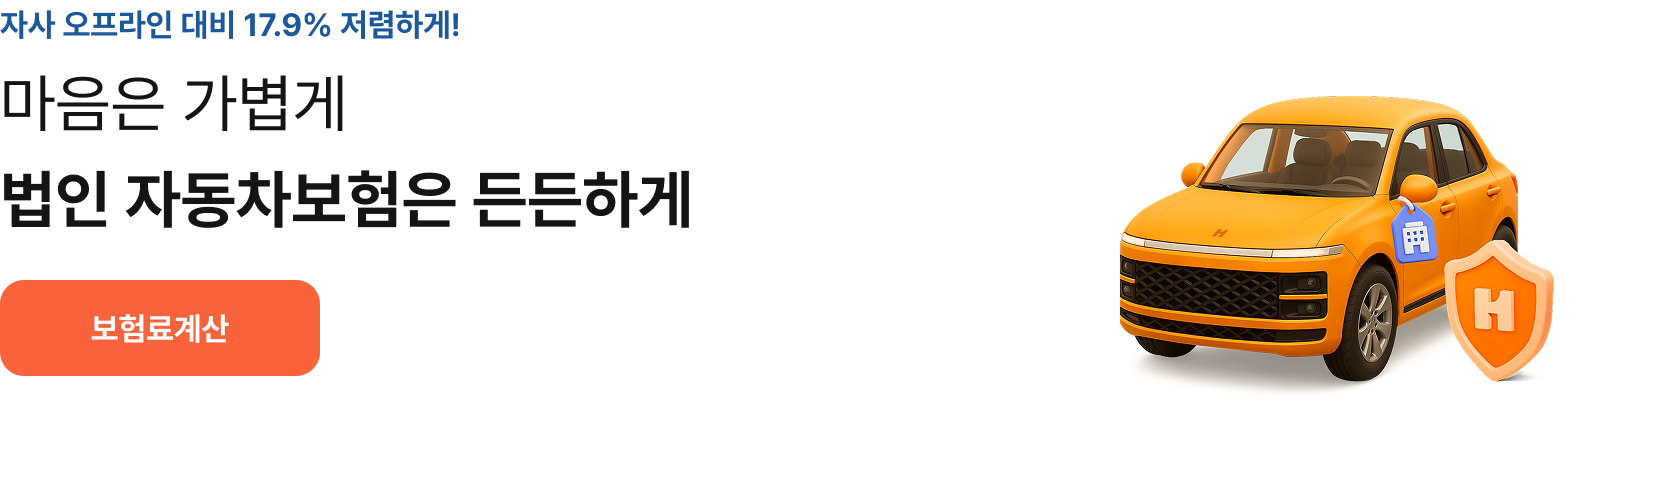
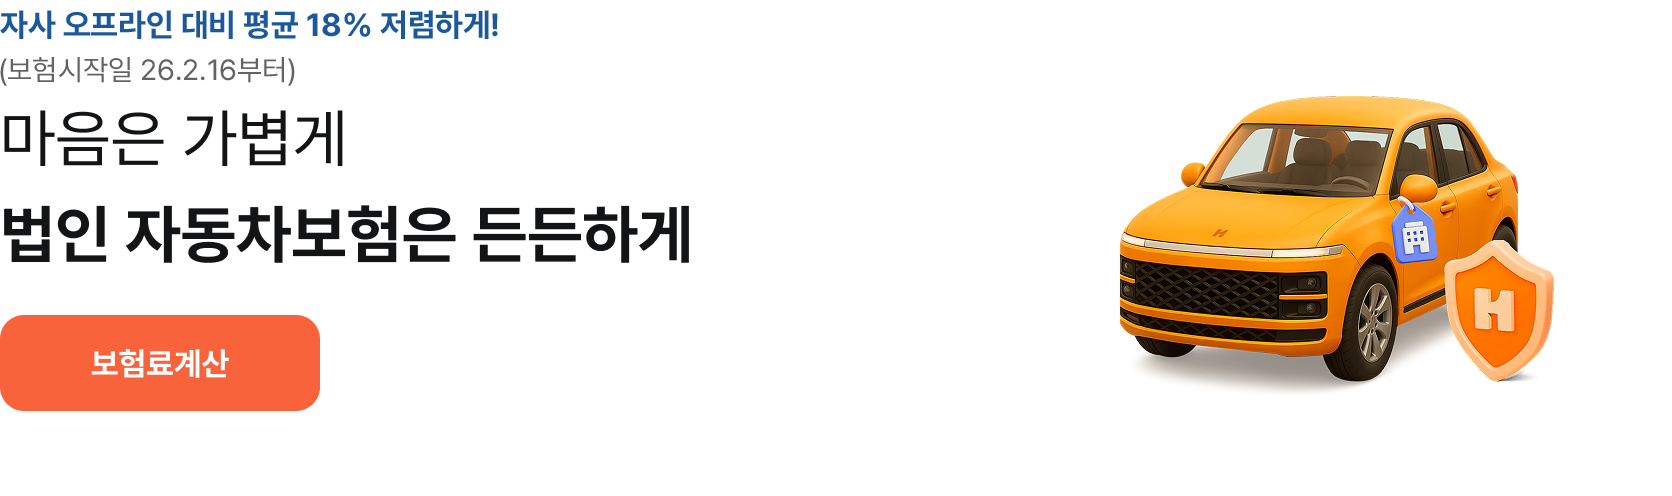
수정사항 반영

Changed region(s): [[0.0, 0.121, 0.4354, 0.8468], [0.0, 0.0, 0.311, 0.0907]]

diff --git a/src/html/HO/HO00/PHOHO0020001000000.html b/src/html/HO/HO00/PHOHO0020001000000.html
@@ -9,7 +9,9 @@
 					<!-- 메인 Visual-->
 					<div class="main_visual_box">
 						<a href="#" title="법인 자동차보험 보험료 계산하기" class="visual_link">
-							<img src="../../../images/content/main/img_corp_main_visual.png" alt="자사 오프라인 평균 17.9% 저렴하게 마음은 가볍게 법인 자동차 보험은 든든하게">
+							<!-- s: 26-01-27 수정 -->
+							<img src="../../../images/content/main/img_corp_main_visual.png" alt="자사 오프라인 대비 평균 18% 저렴하게! (보험시작일 26.2.16부터) 마음은 가볍게 법인 자동차 보험은 든든하게 보험료계산">
+							<!-- e: 26-01-27 수정 -->
 						</a>
 					</div>
 

diff --git a/public/js/common.js b/public/js/common.js
@@ -1506,7 +1506,8 @@ $(function(){
 			const clientHeight = $thisPopupCont.height();
 			
 			// 스크롤이 최하단에 도달했는지 확인
-			if (currentScrollTopInPopup + clientHeight >= scrollHeight - 80) {
+			// if (currentScrollTopInPopup + clientHeight >= scrollHeight - 80) {
+			if (currentScrollTopInPopup + clientHeight >= scrollHeight - 140) {
 				$fixedButton.hide();
 				$doneButton.show();
 			}

diff --git a/src/index2.html b/src/index2.html
@@ -881,7 +881,11 @@
 						<td class="complete ok"></td>
 						<td class="bigo"></td>
 						<td class="bigo2"></td>
-						<td class="note"></td>
+						<td class="note">
+							<ul class="m-list">
+								<li>26-01-27</li>
+							</ul>
+						</td>
 					</tr>
 					<tr class="del">
 						<td class="idx_dept1">홈</td>
